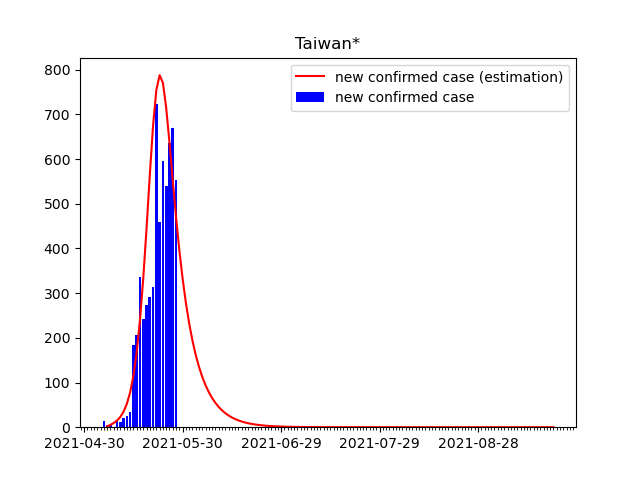
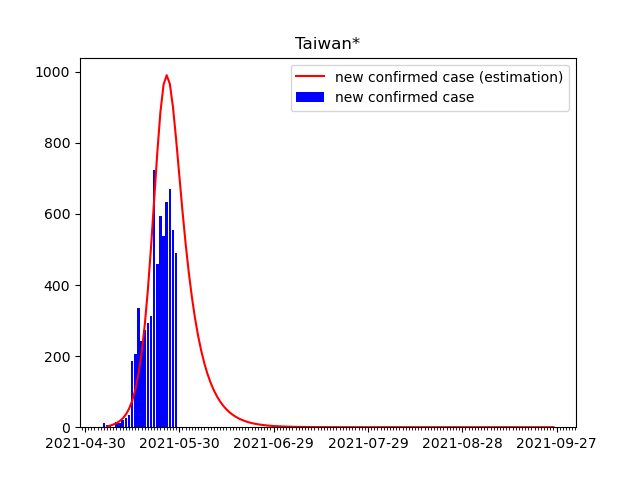
add taiwan newest data and modify as mean_squared_error

diff --git a/run_dl_analysis.py b/run_dl_analysis.py
@@ -96,6 +96,11 @@ def main():
     pd_deaths = pd.read_csv(os.path.join(data_path, filename_deaths))
     pd_recovered = pd.read_csv(os.path.join(data_path, filename_recovered))
 
+    #
+
+
+
+
     # step3: plot
     for i_check_Country, i_check_Province, i_population, i_last_day in zip(check_Country, check_Province, check_population, check_day_start):
         if(i_check_Province is None):
@@ -183,6 +188,24 @@ def data_preprocessing(pd_confirmed, pd_deaths, pd_recovered, check_Country, che
     pd_covid_19 = pd.concat([pd_confirmed_sel, pd_deaths_sel, pd_recovered_sel], axis = 1)
     pd_covid_19.index = pd.to_datetime(pd_covid_19.index)
 
+    #-------------------------------------------
+    # add Taiwan newest data
+    if check_Country == 'Taiwan*':
+        covid19_tw_stats_df = pd.read_csv('https://od.cdc.gov.tw/eic/covid19/covid19_tw_stats.csv')
+        covid19_tw_stats_df.apply(lambda s: s.astype(str).str.replace(',', '').astype(float))
+        confirmed_newest = covid19_tw_stats_df["確診"][0]
+        deaths_newest = covid19_tw_stats_df["死亡"][0]
+        recovered_newest =  covid19_tw_stats_df["解除隔離"][0]
+
+        if confirmed_newest > pd_covid_19['confirmed'][-1]:
+            pd_covid_19_newest = pd.DataFrame.from_dict({
+                'confirmed': [confirmed_newest],
+                'deaths': [deaths_newest],
+                'recovered': [recovered_newest],
+            })
+            pd_covid_19_newest.index = [pd_covid_19.index[-1] + datetime.timedelta(days=1)]
+            pd_covid_19 = pd_covid_19.append(pd_covid_19_newest, )  # ignore_index
+    #----------------------------------------
 
     if check_day_start is not None:
         check_day_start = datetime.datetime.strptime(check_day_start, "%Y-%m-%d")

diff --git a/EstimationInfectedPeople.py b/EstimationInfectedPeople.py
@@ -161,16 +161,16 @@ class EstimationInfectedPeople():
 
         if(self.optim_weight_en==1):
             weights = 1 / np.arange(1, optim_days + 1)[::-1]  # Recent data is more heavily weighted
-            msle_infected = mean_squared_log_error(self.infected[-optim_days:,], est_i[-optim_days:, 2], weights)
-            #msle_recovered = mean_squared_log_error(self.recovered[-optim_days:, ], est_i[-optim_days:, 3], weights)
-            #msle_deaths = mean_squared_log_error(self.deaths[-optim_days:, ], est_i[-optim_days:, 4], weights)
+            msle_infected = mean_squared_error(self.infected[-optim_days:,], est_i[-optim_days:, 2], weights)
+            msle_recovered = mean_squared_error(self.recovered[-optim_days:, ], est_i[-optim_days:, 3], weights)
+            msle_deaths = mean_squared_error(self.deaths[-optim_days:, ], est_i[-optim_days:, 4], weights)
         else:
-            msle_infected = mean_squared_log_error(self.infected[-optim_days:,], est_i[-optim_days:, 2], )
-            #msle_recovered = mean_squared_log_error(self.recovered, est_i[:, 3], )
-            #msle_deaths = mean_squared_log_error(self.deaths, est_i[:, 4], )
+            msle_infected = mean_squared_error(self.infected[-optim_days:,], est_i[-optim_days:, 2], )
+            msle_recovered = mean_squared_error(self.recovered[-optim_days:,], est_i[-optim_days:, 3], )
+            msle_deaths = mean_squared_error(self.deaths[-optim_days:,], est_i[-optim_days:, 4], )
 
-        #return msle_infected + msle_recovered + msle_deaths
-        return msle_infected
+        return msle_infected + msle_recovered * 0.5 + msle_deaths
+        #return msle_infected
 
 
 
